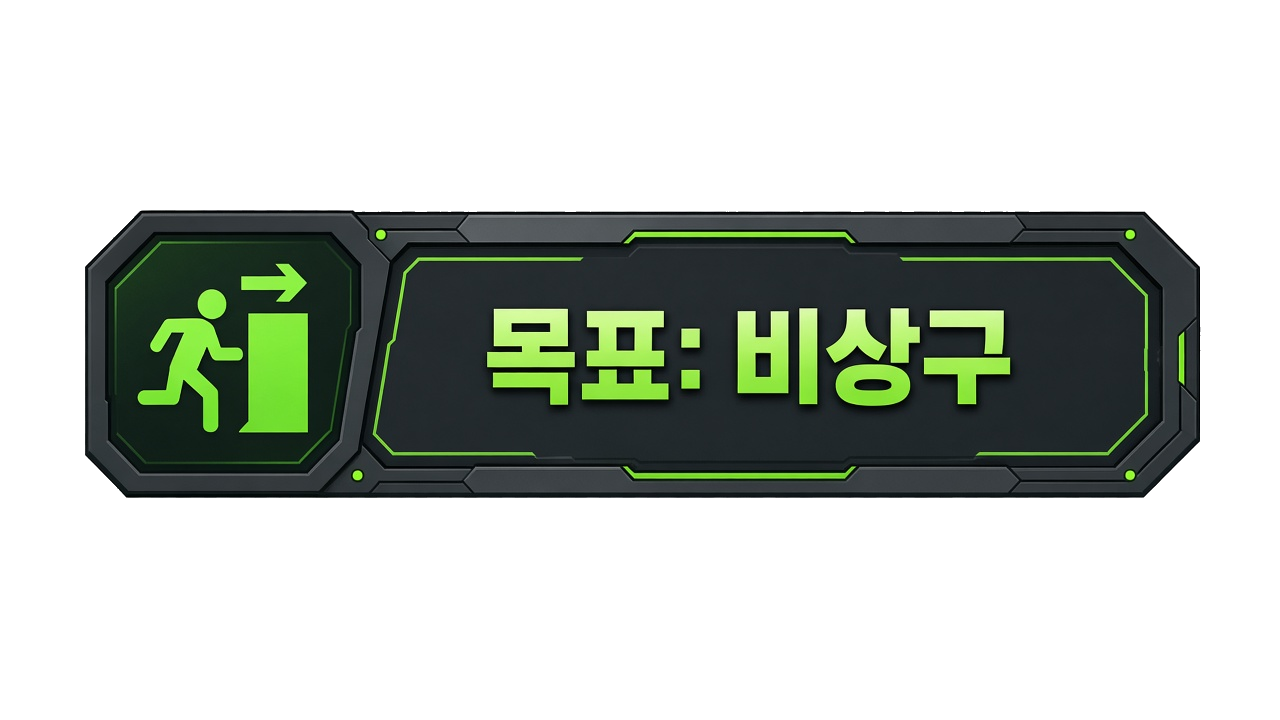
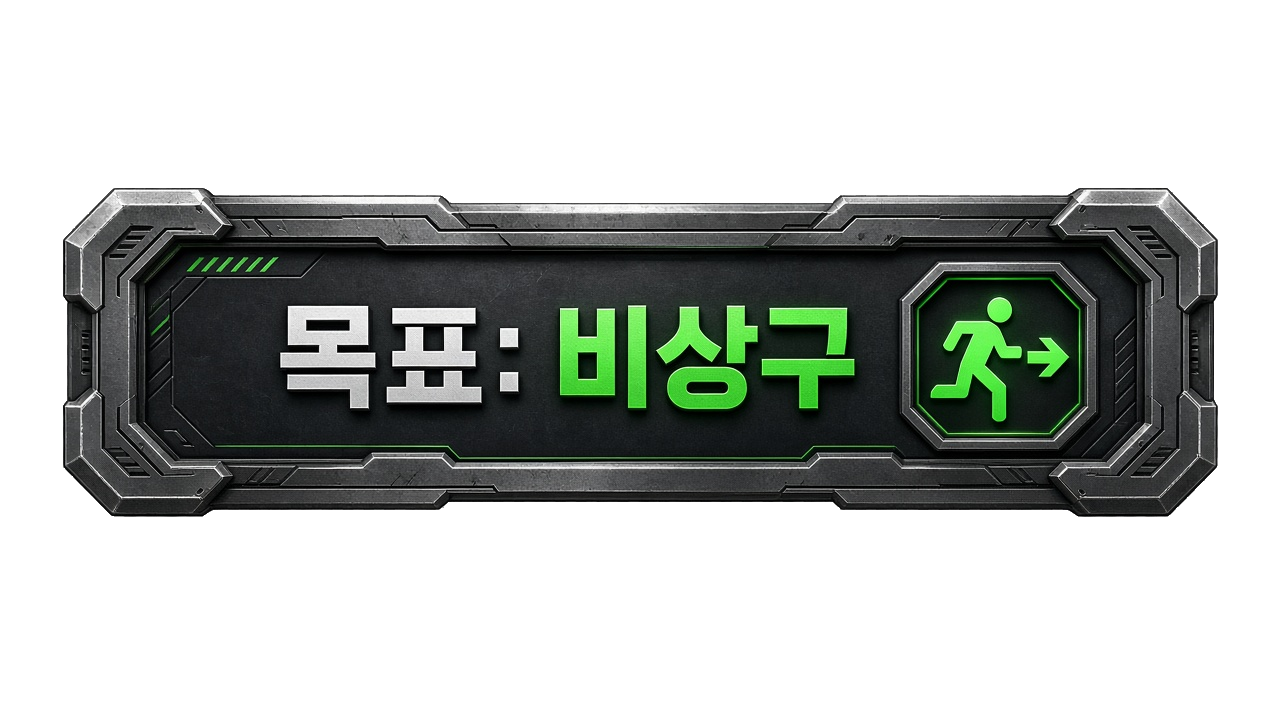
feat(#24): wire #27 production art into P0 hooks
Drop-in replace of P0 textures with PR #27 production sheets (RGBA PNG,
atlas crop on 1280×720, tight PNG skips crop). Upgrade CTA uses
ui_upgrade.png; player sprite is PlayerSprite in the arena. Android
export_presets.cfg stub only — signing later.

Closes #12. Refs #24.

Changed region(s): [[0.0312, 0.2444, 0.9688, 0.7333]]

diff --git a/art/README.md b/art/README.md
@@ -1,60 +1,46 @@
-# 아트 (P0 플레이스홀더 → #12 드롭인)
+# 아트 (SERVICE / #12 프로덕션)
 
-[#11](https://github.com/jswook/infection-clearance/issues/11) P0 플레이스홀더. [#12](https://github.com/jswook/infection-clearance/issues/12) 실에셋은 **같은 파일명**으로 아래 폴더에 덮어쓴다. 게임 로직·경로 상수는 바꾸지 않는다.
+[#12](https://github.com/jswook/infection-clearance/issues/12) P0 훅 경로를 **서비스 레벨 프로덕션** PNG로 교체한다. 파이프라인: [#24](https://github.com/jswook/infection-clearance/issues/24) 단계 3 (임포트·연출). PNG는 PR #27 경로 그대로다.
 
-`art/.gdignore`는 두지 않는다. Godot이 PNG를 `Texture2D`로 임포트하고, `scripts/P0Art.gd`가 유일한 로드 훅이다 (`scenes/App.tscn`의 ext_resource는 임포트 앵커).
+HUD 다이어트(첫 10분 HUD에 편성·기지 허브, 결제+, 스킬 바, 골드 카피 금지. 「이번만」 카피는 스크랩/보급만)는 [`docs/ux/production-s1.md`](../docs/ux/production-s1.md)를 따른다.
 
-## 드롭인 경로
+`art/.gdignore`는 두지 않는다. Godot이 PNG를 `Texture2D`로 임포트하고, `scripts/P0Art.gd`가 유일한 로드 훅이다 (`scenes/App.tscn`의 ext_resource는 임포트 앵커). 새 슬롯·새 HUD를 만들지 않는다.
 
-| 폴더 | 파일 | 용도 | 연결 |
-| --- | --- | --- | --- |
-| `ui/` | `ui_upgrade_blink.png` | UI 업글 버튼 점멸 | 업글 버튼 옆 TextureRect. 구매 가능할 때만 점멸 |
-| `ui/` | `ui_boost_once.png` | 「이번만」 긴급 **보급** 카드 | 첫 실패 오버레이. 카피=스크랩/보급. **골드 금지** |
-| `ui/` | `ui_goal_exit.png` | 스테이지 목표 카드 (비상구) | 업글1 선택 후, 확인 시 자동 해금 |
-| `enemies/` | `enemies_z1_b1.png` | Z1–Z6 · B1 실루엣 | 아레나 Sprite2D (grunt Z1–Z3, add Z4, runner Z5, brute Z6, boss B1) |
-| `fx/` | `fx_kill_scrap.png` | 처치 + 스크랩 피드백 | 처치 시 버스트·탄피 FX |
+## 프로덕션 시트 (P0 훅)
 
-## #12 규칙
+모두 1280×720 RGBA. 타이트(비-1280) PNG를 넣으면 `P0Art.sheet_texture()`가 아틀라스 크롭 없이 전체 텍스처를 쓴다.
 
-- 경로: `P0Art.ALL_PATHS` (`res://art/ui`, `res://art/enemies`, `res://art/fx`).
-- UI 카드: P0는 1280×720 시트라 아틀라스 크롭. **타이트 PNG**(다른 해상도)를 넣으면 `P0Art.ui_texture()`가 전체 텍스처를 쓴다.
-- 「이번만」 실에셋 카피는 `Balance.ibeonman_supply_copy()`와 맞춘다 (화력·체력·탄약 보급). 골드획득/상점 카피 없음.
-- 적·FX 시트는 `P0Art` 아틀라스 좌표를 유지하거나, 시트 레이아웃이 바뀌면 좌표만 갱신한다.
-- 상점/가챠/에너지/조이스틱/스킬 슬롯 아트는 S1에 넣지 않는다.
-
-모두 1280×720 RGBA PNG. 배경은 실제 알파(투명)다.
-
-| 파일 | 용도 |
-| --- | --- |
-| `ui/ui_upgrade.png` | UI 업글 버튼 배지 |
-| `ui/ui_boost_once.png` | 「이번만」 무료 부스트 카드 |
-| `ui/ui_goal_exit.png` | 스테이지 목표 카드 (비상구) |
-| `enemies/enemies_z1_b1.png` | Z1–Z6 · B1 시트 (grunt Z1–Z3, add Z4, runner Z5, brute Z6, boss B1) |
-| `fx/fx_kill_scrap.png` | 처치 버스트 + 스크랩(탄피) FX |
-| `characters/player.png` | 플레이어 |
+| 파일 | 용도 | 연결 |
+| --- | --- | --- |
+| `ui/ui_upgrade.png` | 업글 CTA (점멸은 이 훅만) | 업글 버튼 옆 TextureRect |
+| `ui/ui_boost_once.png` | 「이번만」 (스크랩/보급, 골드 금지) | 첫 실패 오버레이 |
+| `ui/ui_goal_exit.png` | 목표: 비상구 | 업글1 선택 후 목표 카드 |
+| `enemies/enemies_z1_b1.png` | Z1–Z6 · B1 | 아레나 Sprite2D |
+| `fx/fx_kill_scrap.png` | 처치/스크랩 | 처치 버스트·탄피 FX |
+| `characters/player.png` | 플레이어 | 아레나 `PlayerSprite` |
 
 ## 아틀라스 영역
 
-`res://scripts/P0Art.gd`의 영역 상수는 이전 플레이스홀더 기준이다. 위 시트를 연결할 때 쓸 실측값(`Rect2(x, y, w, h)`):
+`scripts/P0Art.gd` 실측값 (`Rect2(x, y, w, h)`). 시트가 1280×720일 때만 적용.
 
 | 프레임 | 영역 |
 | --- | --- |
-| Z1 | `Rect2(21, 276, 130, 220)` |
-| Z2 | `Rect2(168, 282, 132, 214)` |
-| Z3 | `Rect2(326, 317, 166, 179)` |
-| Z4 | `Rect2(503, 276, 143, 221)` |
-| Z5 | `Rect2(668, 271, 150, 227)` |
-| Z6 | `Rect2(840, 265, 141, 232)` |
-| B1 | `Rect2(995, 181, 274, 320)` |
-| 처치 버스트 | `Rect2(90, 124, 461, 434)` |
-| 스크랩(탄피) | `Rect2(804, 163, 279, 343)` |
-| 업글 배지 | `Rect2(386, 113, 498, 480)` |
-| 부스트 카드 | `Rect2(184, 41, 912, 623)` |
-| 목표 카드 | `Rect2(85, 210, 1115, 288)` |
-| 플레이어 | `Rect2(447, 101, 403, 470)` |
+| Z1 | `Rect2(35, 54, 162, 230)` |
+| Z2 | `Rect2(235, 64, 158, 221)` |
+| Z3 | `Rect2(428, 32, 158, 253)` |
+| Z4 | `Rect2(614, 73, 187, 211)` |
+| Z5 | `Rect2(814, 104, 246, 183)` |
+| Z6 | `Rect2(1084, 54, 158, 232)` |
+| B1 | `Rect2(419, 315, 421, 338)` |
+| 처치 버스트 | `Rect2(88, 57, 526, 575)` |
+| 스크랩(탄피) | `Rect2(767, 140, 401, 410)` |
+| 업글 CTA | `Rect2(174, 170, 931, 356)` |
+| 부스트 카드 | `Rect2(107, 41, 1060, 622)` |
+| 목표 카드 | `Rect2(57, 182, 1167, 341)` |
+| 플레이어 | `Rect2(450, 11, 302, 679)` |
 
-알파가 들어 있으므로 `P0Art.chroma_material()`의 크로마 키는 이 스프라이트에 필요하지 않다.
+알파가 들어 있으므로 `P0Art.chroma_material()` 크로마 키는 이 스프라이트에 쓰지 않는다.
 
 ## 남아 있는 플레이스홀더
 
-`ui/ui_upgrade_blink.png`는 현재 `P0Art.UPGRADE_BLINK` 연결이 쓰고 있어 그대로 둔다.
+`ui/ui_upgrade_blink.png`는 예전 P0 점멸 시트다. 점멸 훅은 `ui_upgrade.png`로 옮겼다.

diff --git a/artifacts/screenshots/README.md b/artifacts/screenshots/README.md
@@ -24,7 +24,7 @@ DISPLAY=:1 godot --path . --resolution 1280x720 --fixed-fps 60 \
 | 파일 | 상태 | 프레임에서 확인되는 것 |
 | --- | --- | --- |
 | `shot1_lobby.png` | S1 1-1 로비 · 탭 처치 | `S1 / 로비 · 1/5`, 머즐 플래시 + 처치/스크랩 FX(`fx_kill_scrap.png`), 남은 그런트 실루엣(`enemies_z1_b1.png`), `스크랩 8`, 자동 버튼 **자동 잠김** |
-| `shot2_upgrade_blink.png` | 업글 유도 (기획 3 / UX 1) | `스크랩` 라벨 **부족 틴트(적색)** + `업그레이드 · 12 스크랩` 버튼과 `ui_upgrade_blink.png` 카드가 **점멸 골(노랑)** 로 발광. 다른 HUD는 점멸 없음 |
+| `shot2_upgrade_blink.png` | 업글 유도 (기획 3 / UX 1) | `스크랩` 라벨 **부족 틴트(적색)** + `업그레이드 · 12 스크랩` 버튼과 `ui_upgrade.png` CTA가 **점멸 골(노랑)** 로 발광. 다른 HUD는 점멸 없음 |
 | `shot3_armory_choice.png` | 무기고 배타 선택 (기획 4) | `S1 / 무기고 · 3/5`, `업글1 · 무기고` 오버레이, `화력 — 공격력 ×1.75` vs `탄약효율 — 탄소모 ×0.45 · 탄창 +8` |
 | `shot4_parking_goal.png` | S1 1-4 주차장 · 목표 카드 + 자동 ON (UX 4) | `S1 / 주차장 · 4/5`, `ui_goal_exit.png` **비상구** 목표 카드, `목표: 비상구 B1 확보`, 자동 버튼 **자동 ON**, `업글1 완료 · 화력` / `화력 24.5` |
 | `shot5_ibeonman.png` | S1 1-5 비상구 B1 첫 실패 → 「이번만」 (기획 5 / UX 2) | `S1 / 비상구 B1 · 5/5`, `체력 0 / 100`, B1 보스 실루엣 + 실드 아크, `ui_boost_once.png` **「이번만」** 카드, `작전 실패` / `「이번만」` · `재도전` 버튼, 토스트 `피격 -13` |
